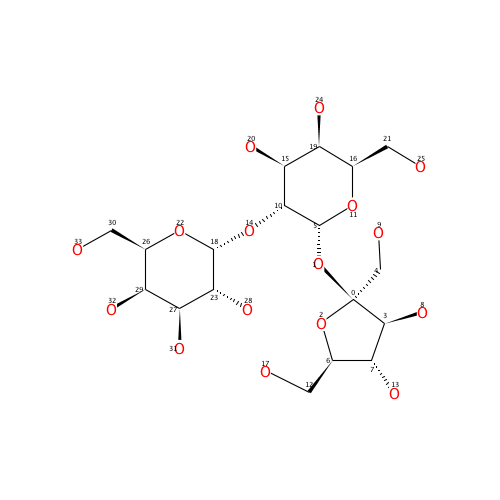
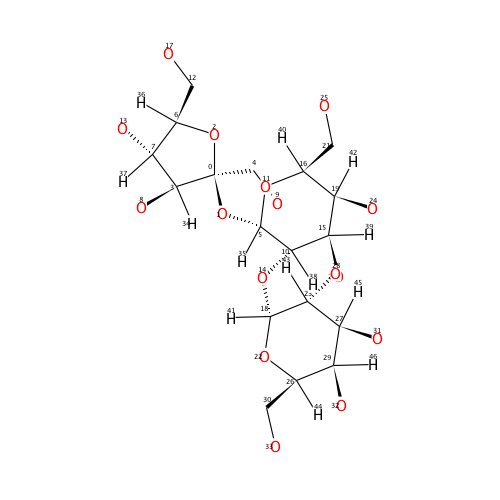
Compare stereo elements between smiles and 2D

diff --git a/src/test/chebi/ChebiTests.java b/src/test/chebi/ChebiTests.java
@@ -2,75 +2,82 @@ package test.chebi;
 
 import java.io.FileNotFoundException;
 import java.io.IOException;
-import java.util.ArrayList;
 import java.util.Arrays;
-import java.util.List;
+import java.util.HashMap;
+import java.util.Map;
 
 import org.junit.Test;
-import org.openscience.cdk.Atom;
 import org.openscience.cdk.DefaultChemObjectBuilder;
-import org.openscience.cdk.Molecule;
 import org.openscience.cdk.exception.CDKException;
-import org.openscience.cdk.geometry.cip.CIPTool;
 import org.openscience.cdk.interfaces.IAtom;
-import org.openscience.cdk.interfaces.IBond;
+import org.openscience.cdk.interfaces.IAtomContainer;
 import org.openscience.cdk.interfaces.IMolecule;
 import org.openscience.cdk.interfaces.IStereoElement;
 import org.openscience.cdk.interfaces.ITetrahedralChirality;
-import org.openscience.cdk.interfaces.ITetrahedralChirality.Stereo;
 import org.openscience.cdk.layout.StructureDiagramGenerator;
 import org.openscience.cdk.smiles.SmilesGenerator;
 import org.openscience.cdk.smiles.SmilesParser;
+import org.openscience.cdk.smsd.Isomorphism;
+import org.openscience.cdk.smsd.interfaces.Algorithm;
 import org.openscience.cdk.smsd.labelling.AtomContainerPrinter;
 
 import stereo.wedge.WedgeStereoAnalyser;
 import stereo.wedge.WedgeStereoAnalysisResult;
-import stereo.wedge.WedgeStereoLifter;
 import test.BaseTest;
 
 public class ChebiTests extends BaseTest {
     
     public static final String DATA_DIR = "data/mols/chebi/";
     
+    // smiles from chebi
+    public static final String smilesFor9859 =
+        "OC[C@H]1O[C@H](O[C@@H]2[C@@H](O)[C@@H](O)[C@@H](CO)O" +
+        "[C@@H]2O[C@]2(CO)O[C@H](CO)[C@@H](O)[C@@H]2O)[C@H](O)[C@@H](O)[C@H]1O";
+    
     public IMolecule get(String chebiID) throws FileNotFoundException, CDKException {
         return getMolecule(DATA_DIR + "ChEBI_" + chebiID + ".mol");
     }
     
     @Test
-    public void tmpCipTest() {
-        IMolecule molecule = new Molecule();
-        molecule.addAtom(new Atom("C"));
-        molecule.addAtom(new Atom("C"));
-        molecule.addAtom(new Atom("C"));
-        molecule.addAtom(new Atom("C"));
-        molecule.addAtom(new Atom("C"));
-        molecule.addAtom(new Atom("C"));
-        molecule.addAtom(new Atom("C"));
-        molecule.addAtom(new Atom("C"));
-        molecule.addAtom(new Atom("C"));
-        molecule.addAtom(new Atom("C"));
-        molecule.addBond(0, 1, IBond.Order.SINGLE, IBond.Stereo.UP);
-        molecule.addBond(0, 2, IBond.Order.SINGLE);
-        molecule.addBond(0, 3, IBond.Order.SINGLE);
-        molecule.addBond(1, 4, IBond.Order.SINGLE);
-        molecule.addBond(2, 5, IBond.Order.SINGLE);
-        molecule.addBond(2, 6, IBond.Order.SINGLE);
-        molecule.addBond(3, 7, IBond.Order.SINGLE);
-        molecule.addBond(3, 8, IBond.Order.SINGLE);
-        molecule.addBond(3, 9, IBond.Order.SINGLE);
-        StructureDiagramGenerator sdg = new StructureDiagramGenerator();
-        sdg.setMolecule(molecule, false);
-        try {
-            sdg.generateCoordinates();
-        } catch (Exception e) {
-            
+    public void compareStereoElements() throws FileNotFoundException, CDKException {
+        IMolecule molFromFile = get("9859");
+        // also sets the stereo elements as a side-effect
+        WedgeStereoAnalyser.getResults(molFromFile);
+        Map<IAtom, ITetrahedralChirality> fromFileChiralMap = getStereoMap(molFromFile);
+        
+        SmilesParser parser = new SmilesParser(DefaultChemObjectBuilder.getInstance());
+        IMolecule molFromSmiles = parser.parseSmiles(smilesFor9859);
+        Map<IAtom, ITetrahedralChirality> fromSmilesChiralMap = getStereoMap(molFromSmiles);
+        
+        Isomorphism isomorphism = new Isomorphism(Algorithm.DEFAULT, false);
+        isomorphism.init(molFromFile, molFromSmiles, false, false);
+        Map<IAtom, IAtom> atomAtomMapping = isomorphism.getFirstAtomMapping();
+        
+        for (IAtom fromFileAtom : fromFileChiralMap.keySet()) {
+            ITetrahedralChirality fromFileChirality = fromFileChiralMap.get(fromFileAtom);
+            IAtom fromSmilesAtom = atomAtomMapping.get(fromFileAtom);
+            ITetrahedralChirality fromSmilesChirality = fromSmilesChiralMap.get(fromSmilesAtom);
+            if (fromFileChirality.getStereo() == fromSmilesChirality.getStereo()) {
+                System.out.println("MATCH");
+            } else {
+                System.out.println("MISMATCH " 
+                        + molFromFile.getAtomNumber(fromFileAtom)
+                        + " : "
+                        + molFromSmiles.getAtomNumber(fromSmilesAtom));
+            }
         }
-        AtomContainerPrinter acp = new AtomContainerPrinter();
-        System.out.println(acp.toString(molecule));
-//        CIPTool.defineLigancyFourChirality(molecule, 0, 1, 2, 3, -1, Stereo.CLOCKWISE);
-        WedgeStereoLifter lifter = new WedgeStereoLifter();
-        lifter.lift(molecule.getAtom(0), molecule);
-        System.out.println(acp.toString(molecule));
+    }
+    
+    public Map<IAtom, ITetrahedralChirality> getStereoMap(IAtomContainer atomContainer) {
+        Map<IAtom, ITetrahedralChirality> stereoMap = 
+            new HashMap<IAtom, ITetrahedralChirality>();
+        for (IStereoElement stereoElement : atomContainer.stereoElements()) {
+            if (stereoElement instanceof ITetrahedralChirality) {
+                ITetrahedralChirality itc = (ITetrahedralChirality) stereoElement;
+                stereoMap.put(itc.getChiralAtom(), itc);
+            }
+        }
+        return stereoMap;
     }
     
     @Test
@@ -83,6 +90,8 @@ public class ChebiTests extends BaseTest {
             atomIndex++;
         }
         System.out.println(acp.toString(umbelliferose));
+        
+        // XXX : only need to do this for the added H's - could they be laid out?
         StructureDiagramGenerator sdg = new StructureDiagramGenerator();
         sdg.setMolecule(umbelliferose, false);
         try {
@@ -107,10 +116,8 @@ public class ChebiTests extends BaseTest {
     
     @Test
     public void umbelliferoseSmilesTest() throws CDKException, IOException {
-        String smiles = "OC[C@H]1O[C@H](O[C@@H]2[C@@H](O)[C@@H](O)[C@@H](CO)O" +
-        "[C@@H]2O[C@]2(CO)O[C@H](CO)[C@@H](O)[C@@H]2O)[C@H](O)[C@@H](O)[C@H]1O";
         SmilesParser parser = new SmilesParser(DefaultChemObjectBuilder.getInstance());
-        IMolecule mol = parser.parseSmiles(smiles);
+        IMolecule mol = parser.parseSmiles(smilesFor9859);
         for (IStereoElement stereoElement : mol.stereoElements()) {
             if (stereoElement instanceof ITetrahedralChirality) {
                 ITetrahedralChirality chir = (ITetrahedralChirality) stereoElement;
